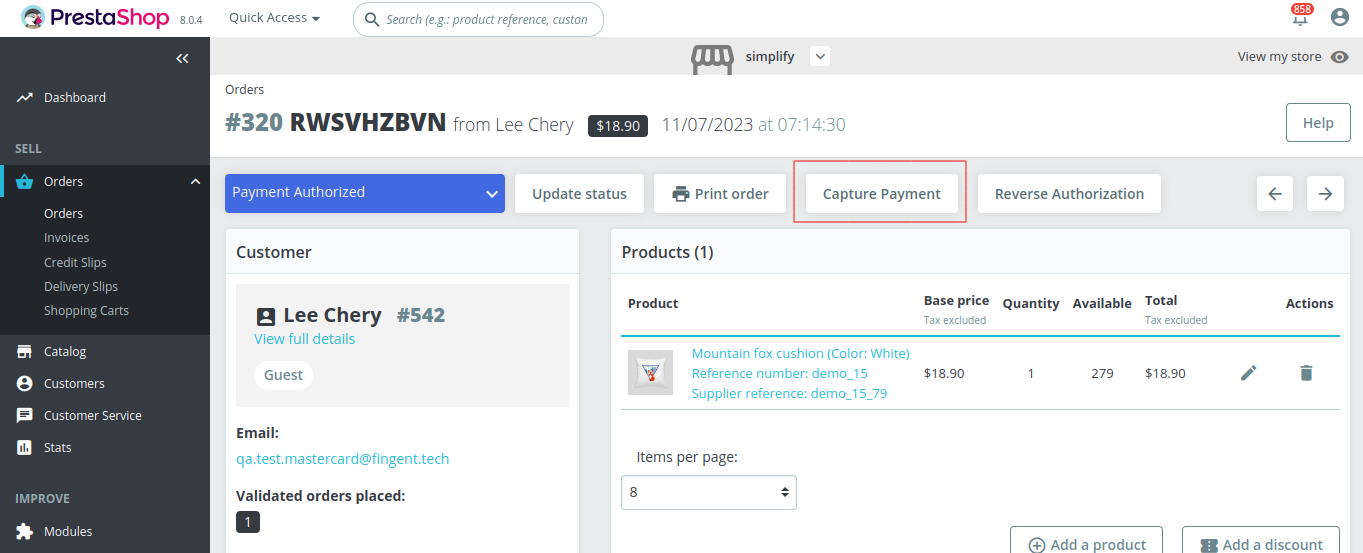
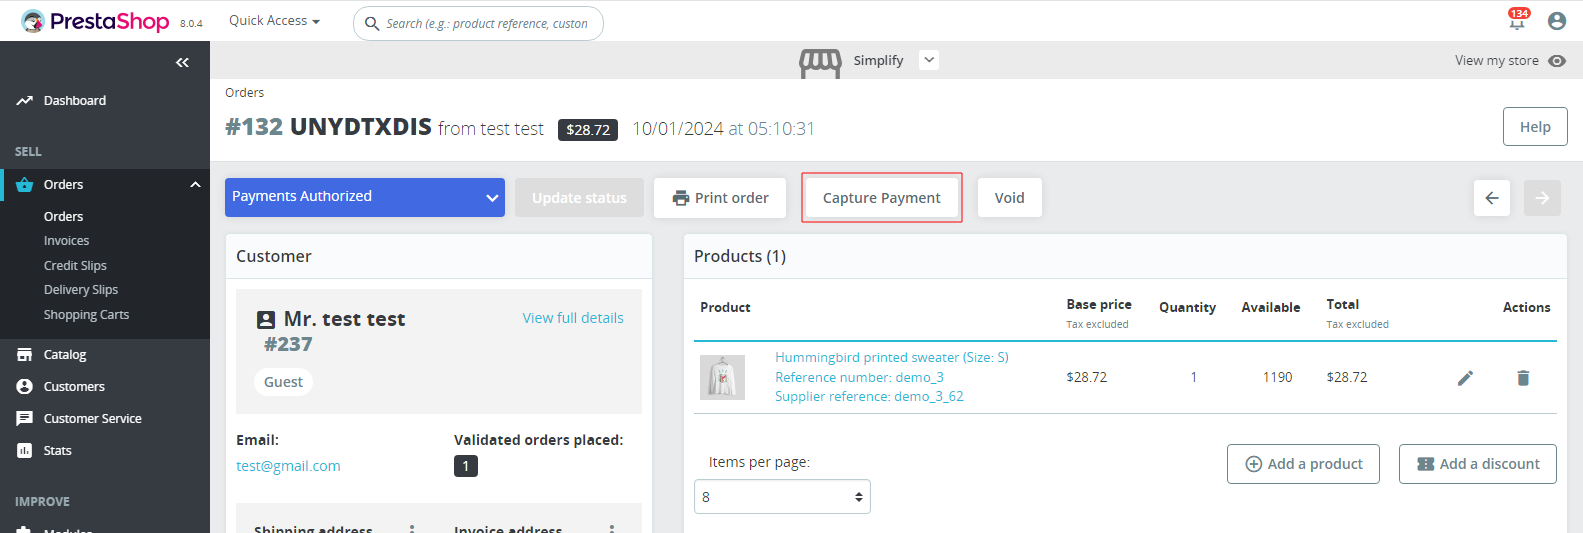
Implemented a feature to enable or disable debug logging. All communication data is encrypted and stored in a log file and Added void details to the order page

diff --git a/README.md b/README.md
@@ -77,16 +77,19 @@ Version v2.4.3
 Please proceed with the following actions to configure the payment method:
 
 1. Log in to your PrestaShop administration application.
-2. Go to Modules > Module Manager
-3. Scroll down until you find the 'Mastercard Payment Gateway Services - Simplify' extension, and click on the Configure button
-4. Enter your public and private API keys into the appropriate fields for the Live and Test mode. For information on your API keys go to https://www.simplify.com/commerce/docs/misc/index. NOTE: When working with Hosted Payments, you'll need to establish and activate an API key pair designed for Hosted Payments.
-5. Select the Enable Payment Method to 'Yes'.
-6. Enter a Payment Method Title. This will be the name shown to your users on the checkout form.
-7. Choose between Payment and Authorize in Transaction Mode.
-8. Choose between Embedded Payment Form and Modal Payment Window in the Hosted Checkout Method.  
-9. Map the Successful and Declined status to suit your workflow. This does not affect the Simplify Commerce configuration.
-10. If you use multiple Payment Providers you can use Sort Order to configure how they're shown on the checkout form.
-11. Don't forget to Enable the extension to activate it.
+2. Navigate to Modules > Module Manager.
+3. Locate the ‘Mastercard Payment Gateway Services – Simplify’ extension and click on the Configure button.
+4. Enter your public and private API keys into the appropriate fields for the Live and Test mode. Refer to https://www.simplify.com/commerce/docs/misc/index for details on obtaining API keys. NOTE: When using Hosted Payments, ensure to activate an API key pair specifically for Hosted Payments.
+5. Select the Enable Payment Method to ‘Yes’.
+6. Save Customer Details: Enable customers to save their card details securely on Simplify servers for future transactions.
+7. Provide a Payment Method Title, which will be displayed to users during checkout.
+8. Choose between Payment and Authorize in Transaction Mode.  
+9. Select between Embedded Payment Form and Modal Payment Window in the Hosted Payment Method.
+10. Map the Successful and Declined status to suit your workflow. This does not affect the Simplify Commerce configuration.
+11. If multiple Payment Providers are used, adjust the Sort Order to determine their display sequence on the checkout form.
+12. Option to choose Button color: Please select your preferred color from the options provided.
+13. Enable/Disable the option to log data into ./var/logs/mastercard_simplify.log. All communications with the Simplify Mastercard Gateway are securely encrypted. You can also download the decrypted log file directly from the plugin configuration page.
+14. Remember to enable the extension to activate the changes.
 
 ![Configuration](docs/images/configuration.png "Configuration")
 
@@ -130,7 +133,7 @@ To capture the order, go to the order details page and click the "Capture Paymen
 
 Void Authorization is used to cancel the order if the merchant finds any fraud/suspect in that order.
 
-![Reverse Authorization](docs/images/reverse-authorization.png "Reverse Authorization")
+![Void Authorization](docs/images/void-authorization.png "Void Authorization")
 
 ### Refund / Partial Refund Transactions
 
